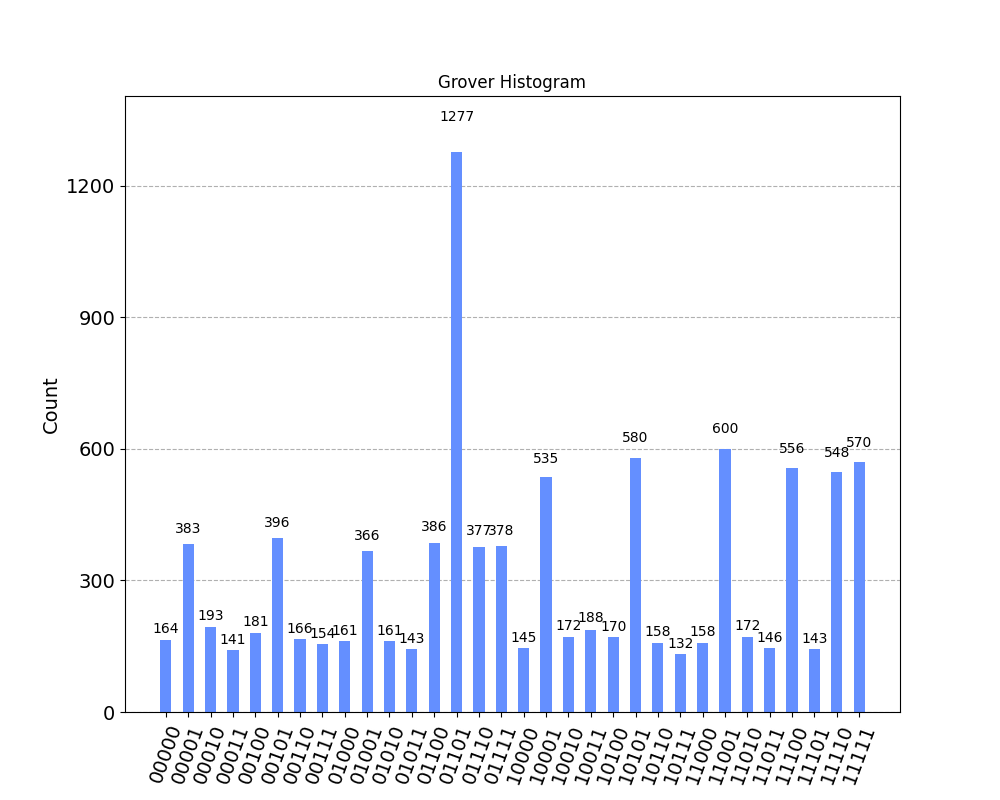
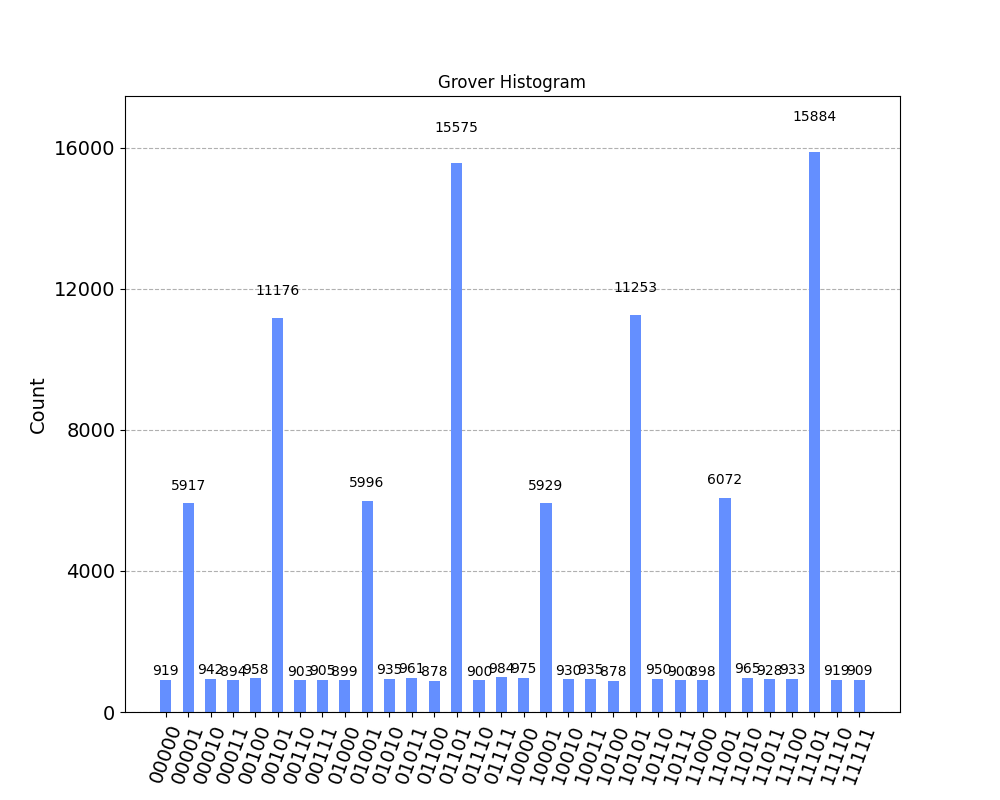
Q2: applying better oracle to grover (results are far more coherent)

diff --git a/TP2/grover.py b/TP2/grover.py
@@ -18,51 +18,58 @@ simulator = QasmSimulator()
 # Create quantum program that find 01101 by reversing its phase
 x = QuantumRegister(len(target), name='X')  # 5 qubits index 0 is the right most qubit
 y = QuantumRegister(1, name='Y')
-ands_results = QuantumRegister(9, name='ands_results')
+ands_results = QuantumRegister(len(target) - 1, name='ands_results')
 res = ClassicalRegister(len(target), name='Target')
 
-oracle = QuantumCircuit(x, y, ands_results, res, name='oracle')
-oracle.h(x)
+grover = QuantumCircuit(x, y, ands_results, res, name='grover')
+grover.h(x)
 
-for j in range(int((2 ** len(target)) ** (1 / 2)) + 1):
+for j in range(int((2 ** len(target)) ** (1 / 2))):
+    grover.reset(y)
+    grover.x(y, 'init y with |1>')
+    grover.h(y)
 
-    oracle.x(y)
-    oracle.h(y)
+    grover.reset(ands_results)
 
-    for i in range(len(target)):
+    for i in range(len(target) - 1):
         correct_index = len(target) - i - 1
-        if target[i] == '0':
-            oracle.x(x[correct_index], 'set to |1> for future CX gate')
-            oracle.cx(x[correct_index], ands_results[correct_index])
-            oracle.x(x[correct_index], 'undo')  # Reset x[i]
-        else:
-            oracle.cx(x[correct_index], ands_results[correct_index])
+        if i == 0:
+            if target[correct_index] == '0':
+                grover.x(x[i], 'correct bit is 0, set to |1> for future CCX gate')
+            if target[correct_index - 1] == '0':
+                grover.x(x[i + 1], 'correct bit is 0, set to |1> for future CCX gate')
 
-    # ands_results from 0 to 4 are all to |1> if x is 01101
-    # We now have to apply ANDS gates to ands_results
+            grover.ccx(x[i], x[i + 1], ands_results[i])
 
-    oracle.ccx(ands_results[0], ands_results[1], ands_results[5])
-    oracle.ccx(ands_results[2], ands_results[3], ands_results[6])
-    oracle.ccx(ands_results[5], ands_results[6],
-               ands_results[7])  # ands_results[7] will be at |1> if x is 01101 or 01101
+            if target[correct_index] == '0':
+                grover.x(x[i], 'undo setter')
+            if target[correct_index - 1] == '0':
+                grover.x(x[i + 1], 'undo setter')
 
-    oracle.ccx(ands_results[7], ands_results[4], ands_results[8])  # ands_results[8] will be at |1> if x is 01101
+            continue
 
-    # ands_results[8] contains f(x) value
-    oracle.cx(ands_results[8], y)  # Apply CX gate to qubit ands_results[8], y in order to get f(x) output (classical
-    # XOR)
+        if target[correct_index - 1] == '0':
+            grover.x(x[i + 1], 'correct bit is 0, set to |1> for future CCX gate')
 
-    # Print the result
+        grover.ccx(ands_results[i - 1], x[i + 1], ands_results[i])
+
+        if target[correct_index - 1] == '0':
+            grover.x(x[i + 1], 'undo setter')
+
+    # ands_results[len(target) - 2] contains f(x) value
+    # Apply CX gate to qubit ands_results[8], y in order to get f(x) output (classical XOR)
+    grover.cx(ands_results[len(target) - 2], y)
+
     inversion_about_mean = qi.Operator(matrix.tolist())
-    oracle.unitary(inversion_about_mean, x, label='Inversion about mean')
+    grover.unitary(inversion_about_mean, x, label='Inversion about mean')
 
 # Map the quantum measurement to the classical bits
-oracle.measure(x, res)
+grover.measure(x, res)
 
-compiled_circuit = transpile(oracle, simulator)
+compiled_circuit = transpile(grover, simulator)
 
 # Execute the circuit on the qasm simulator
-job = simulator.run(compiled_circuit, shots=10000)
+job = simulator.run(compiled_circuit, shots=100000)
 
 # Grab results from the job
 result = job.result()
@@ -71,6 +78,6 @@ result = job.result()
 counts = result.get_counts(compiled_circuit)
 
 # Draw the circuit
-oracle.draw('mpl', filename='grover.png')
+grover.draw('mpl', filename='grover.png')
 
 plot_histogram(counts, filename='grover_hist.png', title='Grover Histogram', bar_labels=True, figsize=(10, 8))
